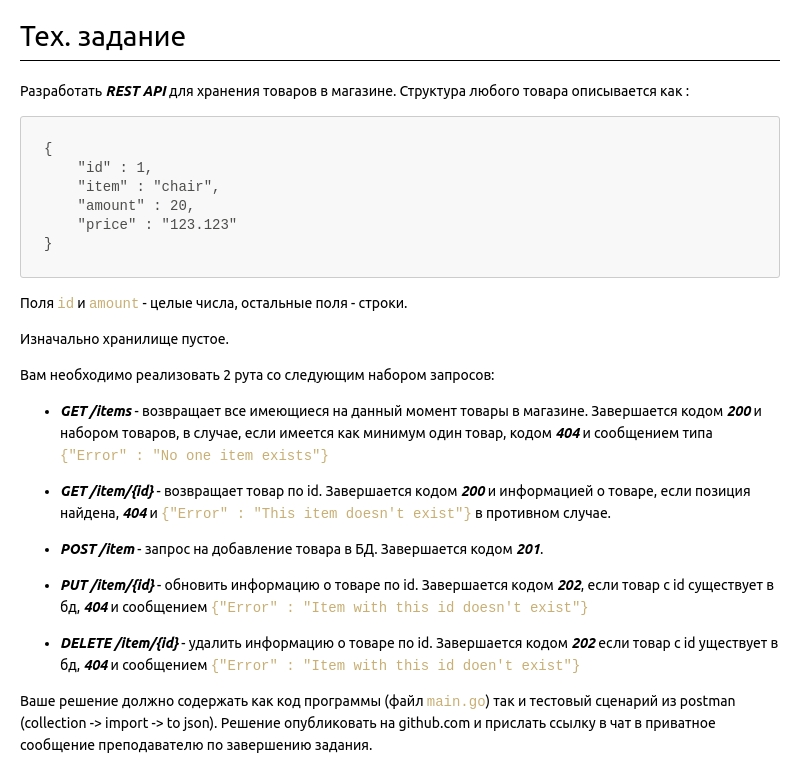
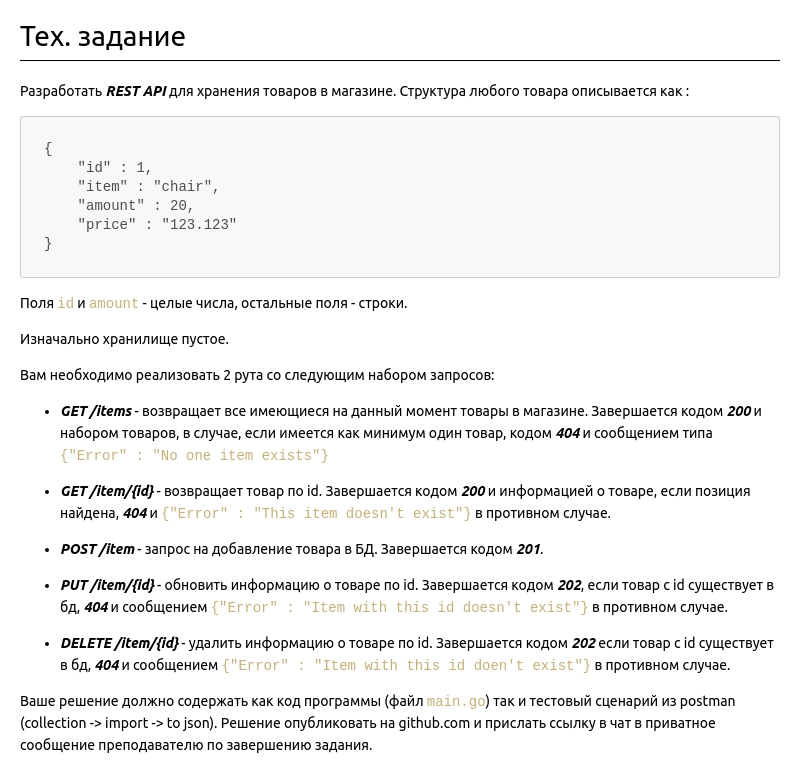
added update for tasks.md

Changed region(s): [[0.375, 0.7792, 0.9688, 0.8727], [0.0625, 0.8416, 0.3438, 0.8727]]

diff --git a/lec4/tasks.html b/lec4/tasks.html
@@ -390,10 +390,10 @@ code {
 <p><em><strong>POST /item</strong></em> - запрос на добавление товара в БД. Завершается кодом <em><strong>201</strong></em>.</p>
 </li>
 <li>
-<p><em><strong>PUT /item/{id}</strong></em> - обновить информацию о товаре по id. Завершается кодом <em><strong>202</strong></em>, если товар с id существует в бд, <em><strong>404</strong></em> и сообщением <code>{&quot;Error&quot; : &quot;Item with this id doesn't exist&quot;}</code></p>
+<p><em><strong>PUT /item/{id}</strong></em> - обновить информацию о товаре по id. Завершается кодом <em><strong>202</strong></em>, если товар с id существует в бд, <em><strong>404</strong></em> и сообщением <code>{&quot;Error&quot; : &quot;Item with this id doesn't exist&quot;}</code> в противном случае.</p>
 </li>
 <li>
-<p><em><strong>DELETE /item/{id}</strong></em> - удалить информацию о товаре по id. Завершается кодом <em><strong>202</strong></em> если товар с id уществует в бд, <em><strong>404</strong></em> и сообщением <code>{&quot;Error&quot; : &quot;Item with this id doen't exist&quot;}</code></p>
+<p><em><strong>DELETE /item/{id}</strong></em> - удалить информацию о товаре по id. Завершается кодом <em><strong>202</strong></em> если товар с id cуществует в бд, <em><strong>404</strong></em> и сообщением <code>{&quot;Error&quot; : &quot;Item with this id doen't exist&quot;}</code> в противном случае.</p>
 </li>
 </ul>
 <p>Ваше решение должно содержать как код программы (файл <code>main.go</code>) так и тестовый сценарий из postman (collection -&gt; import  -&gt; to json). Решение опубликовать на github.com и прислать ссылку в чат в приватное сообщение преподавателю по завершению задания.</p>

diff --git a/lec4/tasks.md b/lec4/tasks.md
@@ -22,8 +22,8 @@
 
 * ***POST /item*** - запрос на добавление товара в БД. Завершается кодом ***201***. 
 
-* ***PUT /item/{id}*** - обновить информацию о товаре по id. Завершается кодом ***202***, если товар с id существует в бд, ***404*** и сообщением ```{"Error" : "Item with this id doesn't exist"}```
+* ***PUT /item/{id}*** - обновить информацию о товаре по id. Завершается кодом ***202***, если товар с id существует в бд, ***404*** и сообщением ```{"Error" : "Item with this id doesn't exist"}``` в противном случае.
 
-* ***DELETE /item/{id}*** - удалить информацию о товаре по id. Завершается кодом ***202*** если товар с id уществует в бд, ***404*** и сообщением ```{"Error" : "Item with this id doen't exist"}```
+* ***DELETE /item/{id}*** - удалить информацию о товаре по id. Завершается кодом ***202*** если товар с id cуществует в бд, ***404*** и сообщением ```{"Error" : "Item with this id doen't exist"}``` в противном случае.
 
 Ваше решение должно содержать как код программы (файл ```main.go```) так и тестовый сценарий из postman (collection -> import  -> to json). Решение опубликовать на github.com и прислать ссылку в чат в приватное сообщение преподавателю по завершению задания.
